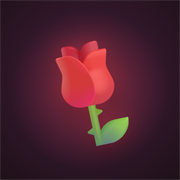
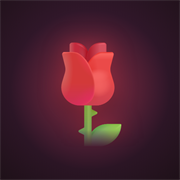
Straighten the preview rose and drop the ring

Changed region(s): [[0.3611, 0.4722, 0.7222, 0.8333], [0.3056, 0.2222, 0.6389, 0.4444], [0.3333, 0.5, 0.3611, 0.5556]]

diff --git a/index.html b/index.html
@@ -7,7 +7,7 @@
 <meta property="og:title" content="Un Trandafir">
 <meta property="og:type" content="website">
 <meta property="og:url" content="https://edybtt.github.io/Maria-Trandafir/">
-<meta property="og:image" content="https://edybtt.github.io/Maria-Trandafir/preview.jpg">
+<meta property="og:image" content="https://edybtt.github.io/Maria-Trandafir/preview.jpg?v=2">
 <meta property="og:image:type" content="image/jpeg">
 <meta property="og:image:width" content="1200">
 <meta property="og:image:height" content="630">
